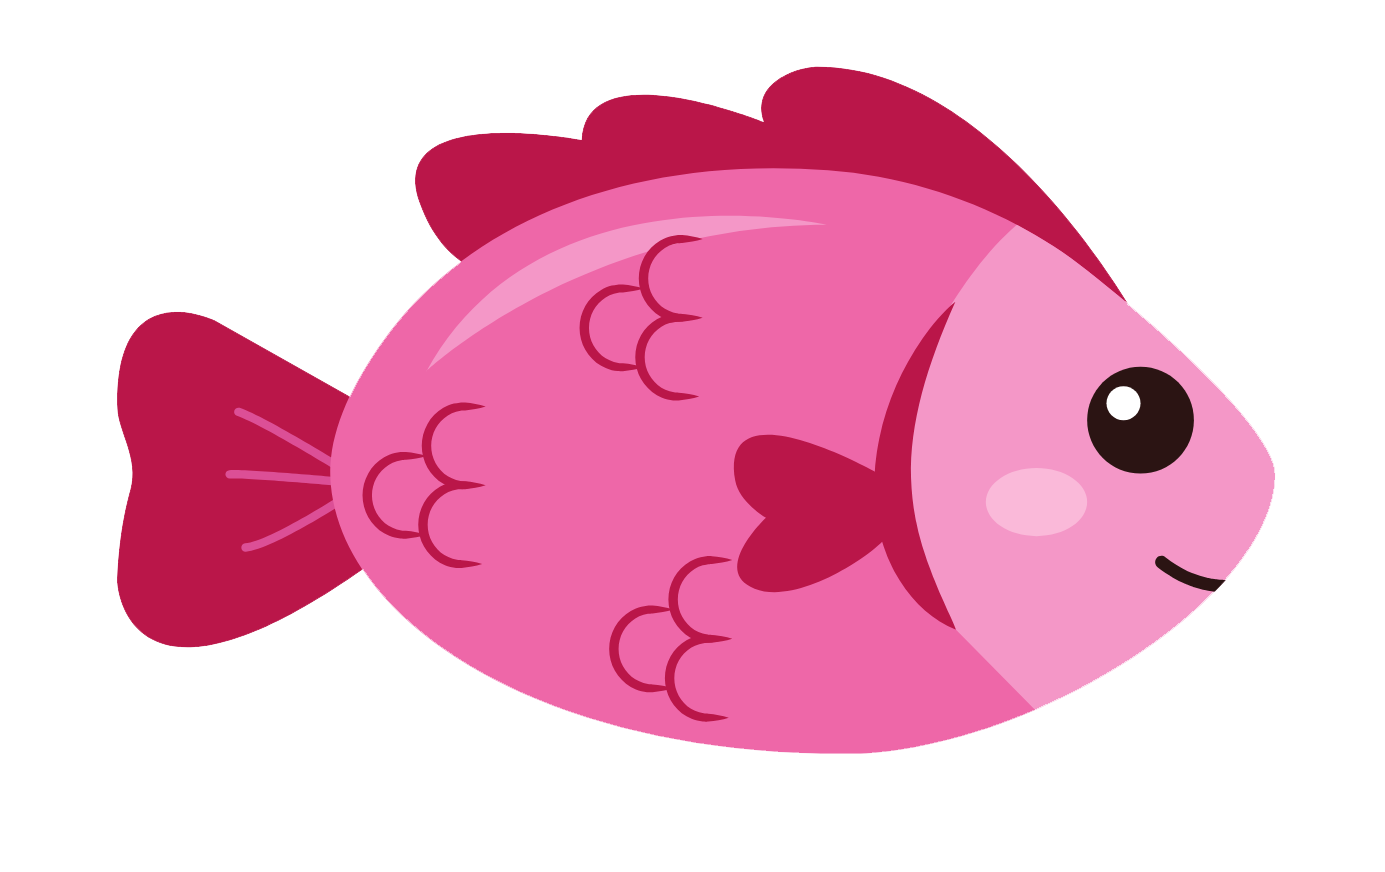
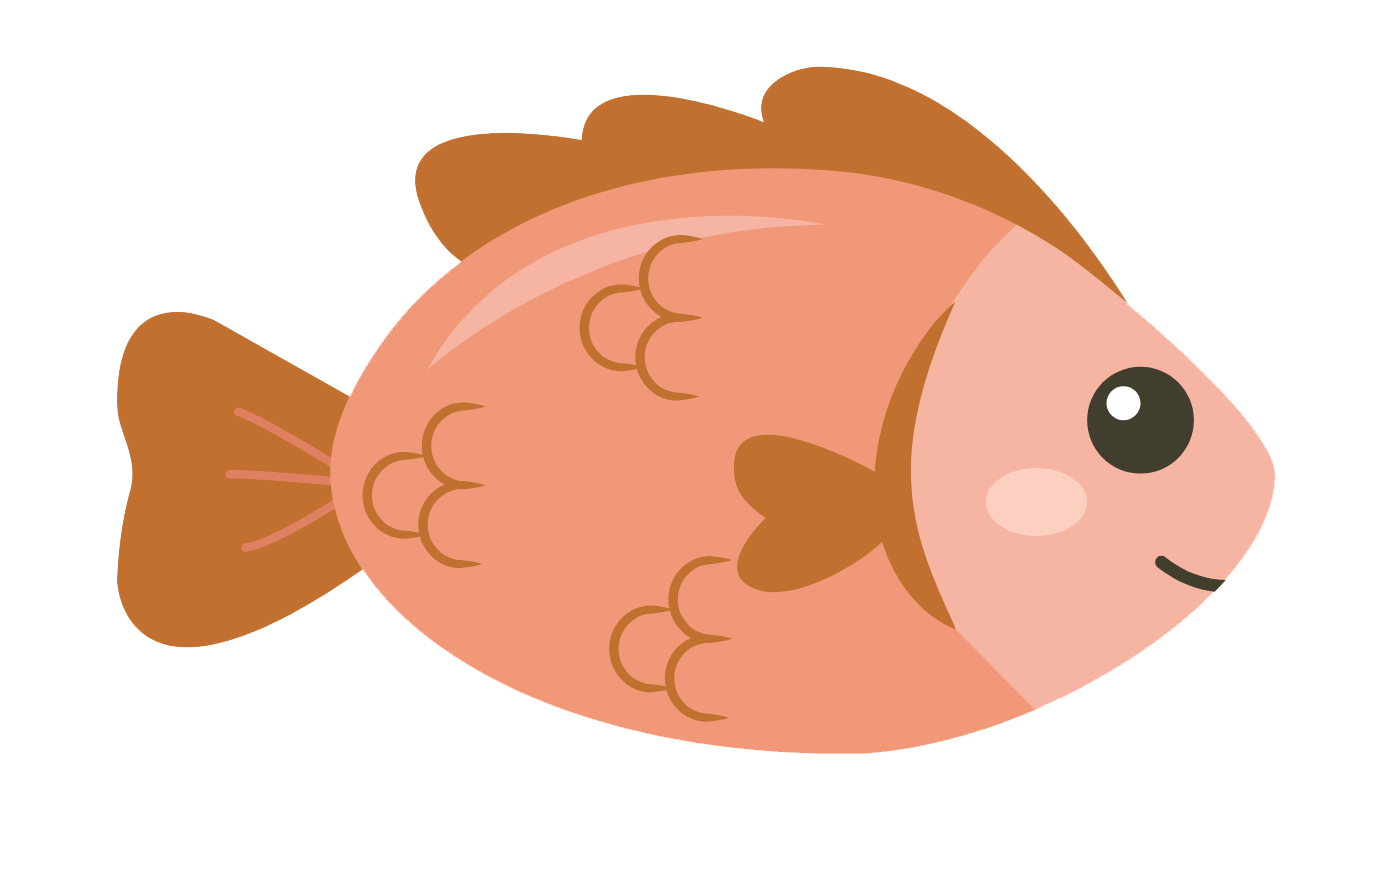
Craeted function for player movement. Changed the AI fish color and added player fish images.

diff --git a/src/project.py b/src/project.py
@@ -60,6 +60,18 @@ class PlayerFish:
         self.image_scaled = pygame.transform.scale(self.image, (100, 60))
         self.angle = 0
 
+    def move(self, keys):
+        if keys[pygame.K_UP]:
+            self.pos[1] -= self.speed
+        if keys[pygame.K_DOWN]:
+            self.pos[1] += self.speed
+        if keys[pygame.K_LEFT]:
+            self.pos[0] -= self.speed
+            self.angle = 180
+        if keys[pygame.K_Right]:
+            self.pos[0] += self.speed
+            self.angle = 0
+
 # class Food:
     ...
 
